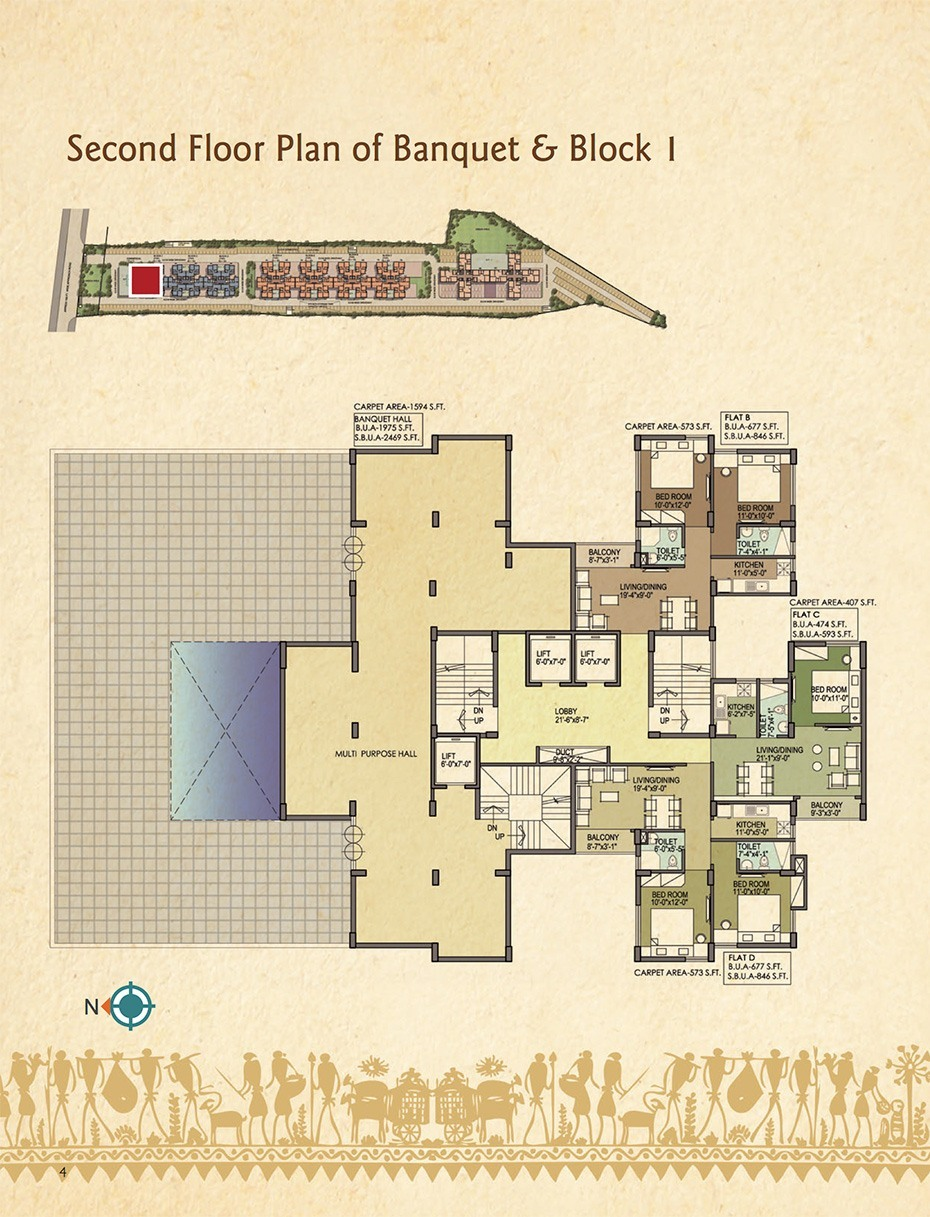
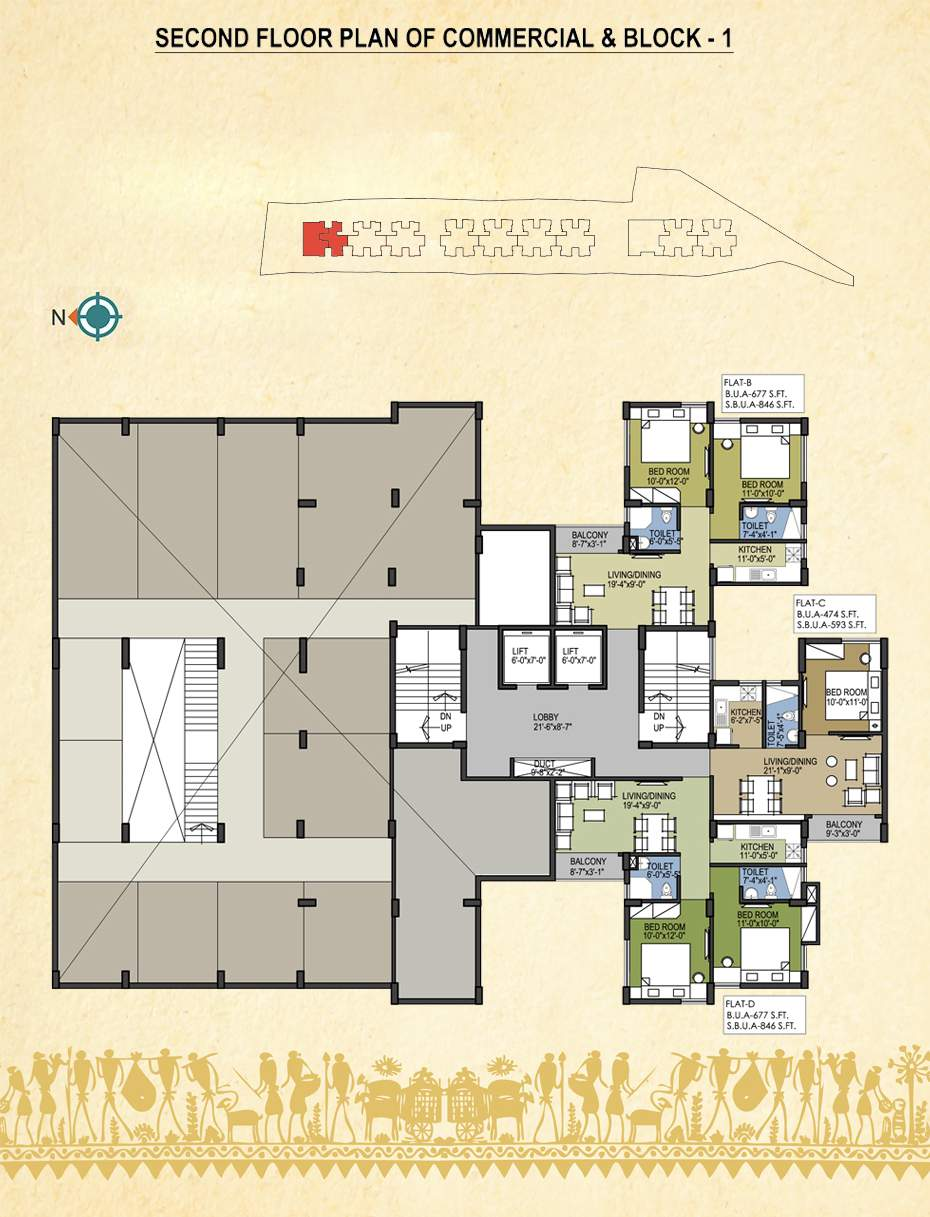
Floor plans updated by Rajan

diff --git a/fh_floorplan.html b/fh_floorplan.html
@@ -99,14 +99,12 @@
         <div class="row">
           <div class="twelve columns">
             <div id="featured">
-				<img src="images/fh/fp1.jpg" alt="Second floor plan of Banquet & Block I" />
-				<img src="images/fh/fp4.jpg" alt="Ground Floor Plan of Block 2 & Block 3" />
-				<img src="images/fh/fp5.jpg" alt="Typical Floor Plan of Block 2 & Block 3" />
-				<img src="images/fh/fp6.jpg" alt="Ground Floor Plan of Block 4, Block 5, Block 6, Block 7" />
-				<img src="images/fh/fh-typical_floor_p4-5-6.jpg" alt="Typical Floor Plan of Block 4, Block 5 and Block 6" />
-				<img src="images/fh/fh-Typical-Floor-Plan-7.jpg" alt="Typical Floor Plan Block 7" />
-				<img src="images/fh/fp8.jpg" alt="Ground Floor Plan of Block 8 & Block 9" />
-				<img src="images/fh/fh-Typical-Floor-Plan-8_9.jpg" alt="Typical Floor Plan of Block 8 & Block 9" />
+				<img src="images/fh/fp.jpg" alt="First floor plan of Commercial & Block 1" />
+				<img src="images/fh/fp1.jpg" alt="Second floor plan of Commercial & Block 1" />
+				<img src="images/fh/fp2.jpg" alt="Third floor plan of Block 1" />
+				<img src="images/fh/fp3.jpg" alt="Typical Floor Plan of Block 1" />
+				<img src="images/fh/fp4.jpg" alt="Typical Floor Plan of Block 2&3" />
+				<img src="images/fh/fp5.jpg" alt="Typical Floor Plan of Block 4" />
 			</div>
           </div>
         </div>
@@ -115,14 +113,13 @@
 	  <div class="hide-for-large-up">
 		  <div class="row">
 		  	<div class="twelve columns">
-				<img src="images/fh/iphone/fp1.jpg" alt="Second floor plan of Banquet & Block I" />
-				<img src="images/fh/iphone/fp4.jpg" alt="Ground Floor Plan of Block 2 & Block 3" />
-				<img src="images/fh/iphone/fp5.jpg" alt="Typical Floor Plan of Block 2 & Block 3" />
-				<img src="images/fh/iphone/fp6.jpg" alt="Ground Floor Plan of Block 4, Block 5, Block 6, Block 7" />
-				<img src="images/fh/iphone/fp7.jpg" alt="Typical Floor Plan Block 7" />
-				<img src="images/fh/iphone/tfp7.jpg" alt="Ground Floor Plan of Block 8 & Block 9" />
-				<img src="images/fh/iphone/fp8.jpg" alt="Ground Floor Plan of Block 8 & Block 9" />
-				<img src="images/fh/iphone/fp9.jpg" alt="Typical Floor Plan of Block 8 & Block 9" />
+				<img src="images/fh/iphone/fp.jpg" alt="First floor plan of Commercial & Block 1" />
+				<img src="images/fh/iphone/fp1.jpg" alt="Second floor plan of Commercial & Block 1" />
+				<img src="images/fh/iphone/fp2.jpg" alt="Third floor plan of Block 1" />
+				<img src="images/fh/iphone/fp3.jpg" alt="Typical Floor Plan of Block 1" />
+				<img src="images/fh/iphone/fp4.jpg" alt="Typical Floor Plan of Block 2&3" />
+				<img src="images/fh/iphone/fp5.jpg" alt="Typical Floor Plan of Block 4" />
+				
 		  	</div>
 		  </div>
 	  </div>
